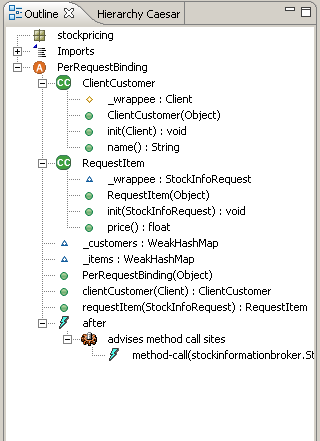
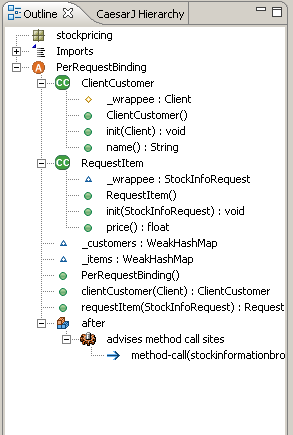
*** empty log message ***

Changed region(s): [[0.0, 0.0, 1.0, 1.0]]

diff --git a/org.caesarj.ui/src/org/caesarj/ui/editor/CaesarOutlineView.java b/org.caesarj.ui/src/org/caesarj/ui/editor/CaesarOutlineView.java
@@ -98,7 +98,8 @@ public class CaesarOutlineView extends ContentOutlinePage {
 			try {
 				if (element instanceof CaesarProgramElementNode) {
 					CaesarProgramElementNode cNode = (CaesarProgramElementNode) element;
-					return cNode.getText(super.getText(element));
+					return cNode.getText(super.getText(element)).replaceAll(
+							"_Impl", "");
 				} else if (element instanceof LinkNode) {
 					LinkNode lNode = (LinkNode) element;
 					String returnString = lNode.toString();
@@ -111,17 +112,17 @@ public class CaesarOutlineView extends ContentOutlinePage {
 								.lastIndexOf(':') + 2, returnString.length());
 						return advice + ":" + className.replaceAll("_Impl", ""); //$NON-NLS-1$
 					} catch (RuntimeException e1) {
-						return returnString.substring(0, returnString.length())
-								+ "()"; //$NON-NLS-1$
+						return (returnString.substring(0, returnString.length())
+								+ "()").replaceAll("_Impl", ""); //$NON-NLS-1$
 					}
 				} else if (element instanceof ProgramElementNode
 						&& ((ProgramElementNode) element)
 								.getProgramElementKind().equals(
 										ProgramElementNode.Kind.CODE)) {
 					return new CodeNode((ProgramElementNode) element)
-							.getText(super.getText(element));
+							.getText(super.getText(element)).replaceAll("_Impl", "");
 				} else
-					return super.getText(element);
+					return super.getText(element).replaceAll("_Impl", "");
 			} catch (NullPointerException e) {
 				logger.error("Sollte es nicht geben!", e); //$NON-NLS-1$
 			}

diff --git a/org.caesarj.ui/src/org/caesarj/ui/model/PointcutNode.java b/org.caesarj.ui/src/org/caesarj/ui/model/PointcutNode.java
@@ -39,12 +39,16 @@ public class PointcutNode extends CaesarProgramElementNode {
 	public String getText(String text) {
 		String ret = this.getName() + "(";
 		JFormalParameter allPara[] = this.pointCutDeclaration.getArgs();
-		String arg = allPara[0].getType().toString();
-		ret += arg.subSequence(arg.lastIndexOf('.') + 1, arg.length());
-		for (int i = 1; i < allPara.length; i++) {
-			arg = allPara[i].getType().toString();
-			ret += ", "
-					+ arg.subSequence(arg.lastIndexOf('.') + 1, arg.length());
+		if (allPara.length != 0) {
+			String arg = allPara[0].getType().toString();
+
+			ret += arg.subSequence(arg.lastIndexOf('.') + 1, arg.length());
+			for (int i = 1; i < allPara.length; i++) {
+				arg = allPara[i].getType().toString();
+				ret += ", "
+						+ arg.subSequence(arg.lastIndexOf('.') + 1, arg
+								.length());
+			}
 		}
 		ret += ")";
 		return ret;
@@ -53,10 +57,10 @@ public class PointcutNode extends CaesarProgramElementNode {
 	public int compareTo(Object o) {
 		return 0;
 	}
-	
+
 	public Image getImage() {
-		return new CaesarElementImageDescriptor(CaesarPluginImages.DESC_POINTCUT,
-				null, BIG_SIZE).createImage();
+		return new CaesarElementImageDescriptor(
+				CaesarPluginImages.DESC_POINTCUT, null, BIG_SIZE).createImage();
 	}
 
 	/**

diff --git a/org.caesarj.ui/src/org/caesarj/ui/marker/CaesarSelectMarkerRulerAction.java b/org.caesarj.ui/src/org/caesarj/ui/marker/CaesarSelectMarkerRulerAction.java
@@ -46,7 +46,6 @@ public class CaesarSelectMarkerRulerAction extends SelectMarkerRulerAction {
 				operation.doOperation(opCode);
 				return;
 			}
-			return;
 		}
 		super.run();
 	}
